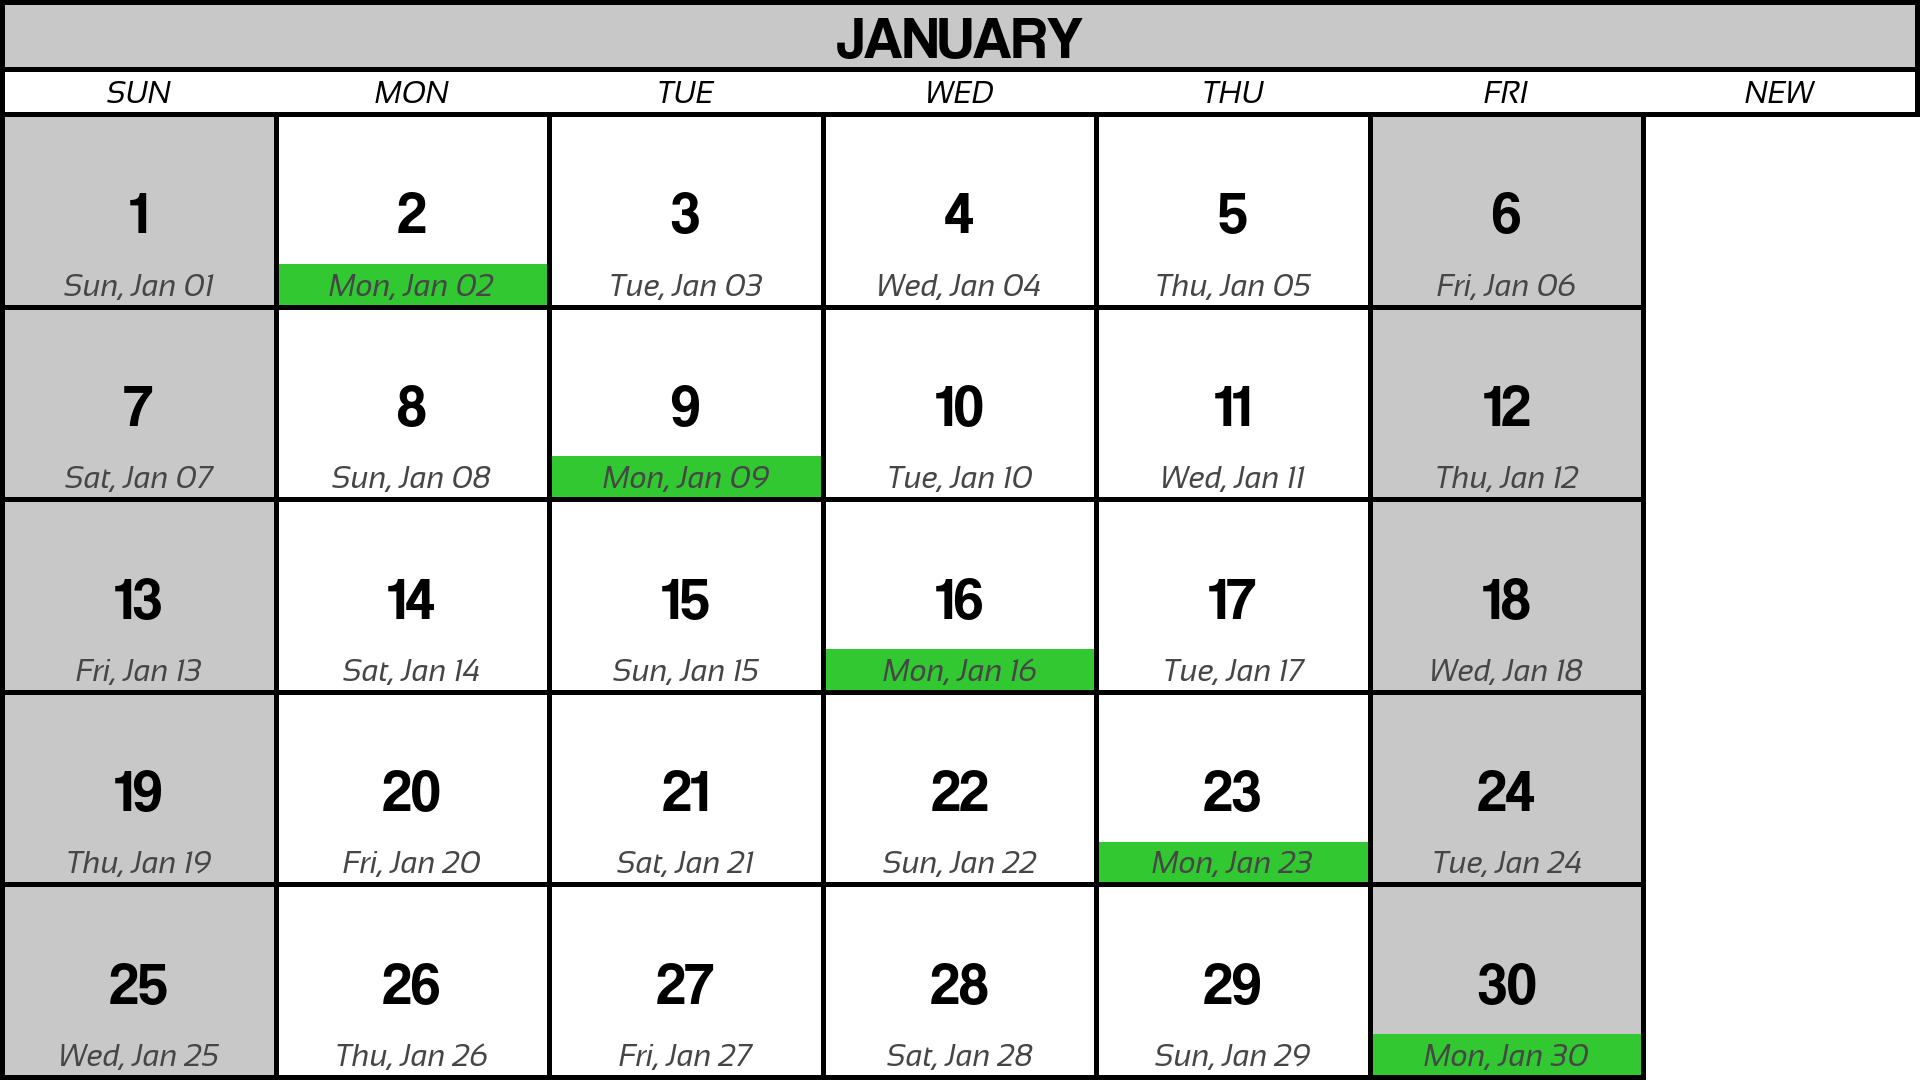
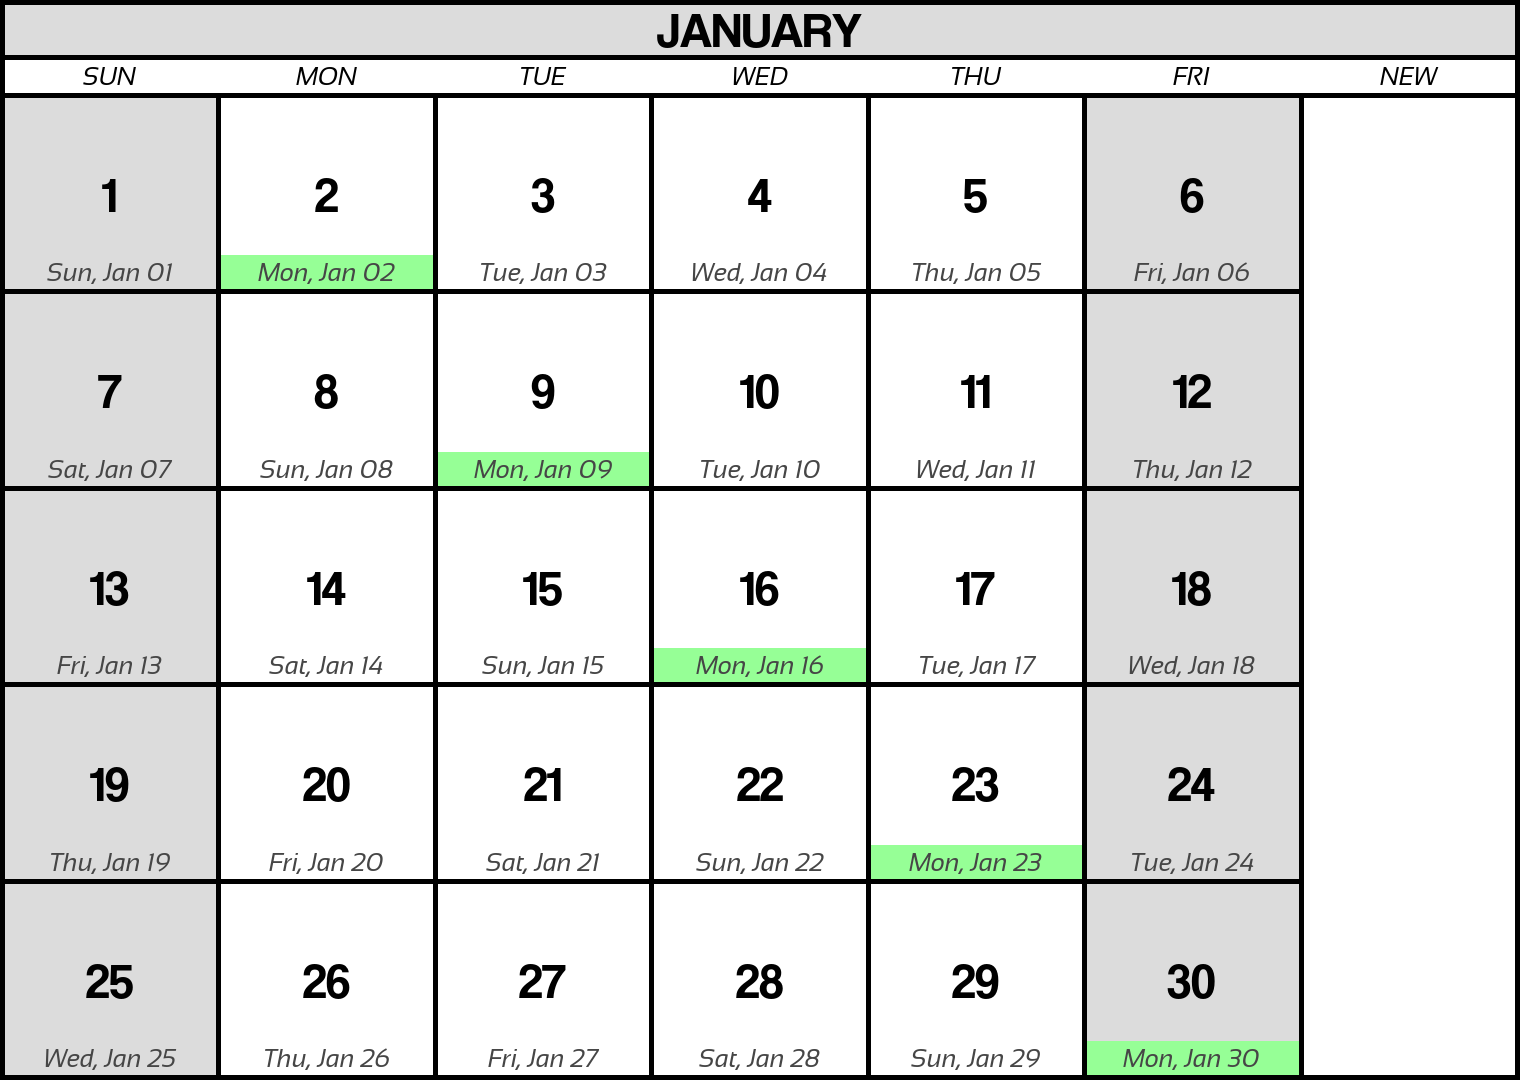
moved indexes to its own generator funct

diff --git a/SixDayCalendar.py b/SixDayCalendar.py
@@ -4,30 +4,11 @@ import datetime
 import DateBox
 from CalendarStyle import CalendarStyle
 
-
-
-# makes a rect smaller on all sides
+# makes a rect smaller on all sides, so borders do not bleed into other modules
 def pad_rects(rects, padding):
     rects[0] = (rects[0][0] + padding, rects[0][1] + padding)
     rects[1] = (rects[1][0] - padding, rects[1][1] - padding)
     return rects
-
-# draws date boxes in a 7x5 grid. only the first 5 columns are used for the first 30 days
-# for months with 31 days, the 6th column is used on the last row.
-# datebox automatically marks 6day weekends as gray and 7day mondays with a green stripe.
-def draw_dates(draw: ImageDraw, rects, start_date: datetime, days_in_month: int, calendarStyle: CalendarStyle):
-    rects = pad_rects(rects, calendarStyle.stroke_width/2)
-    box_width = (rects[1][0] - rects[0][0]) / 7
-    box_height = (rects[1][1] - rects[0][1]) / 5
-    row = 0
-    col = 0
-    for i in range(0, days_in_month):
-        boxrects = [(rects[0][0] + box_width * col, rects[0][1] + box_height * row), (rects[0][0] + box_width * (col+1), rects[0][1] + box_height * (row+1))]
-        DateBox.draw_datebox(boxrects, draw, (col, row), i+1, start_date + datetime.timedelta(days=i), calendarStyle)
-        col += 1
-        if row < 4 and col >= 6:
-            col = 0
-            row += 1
 
 # draws the title for the month. input is 6day month.
 def draw_title(draw: ImageDraw, rects, month: str, calendarStyle: CalendarStyle):
@@ -47,9 +28,32 @@ def draw_weekdays(draw: ImageDraw, rects, calendarStyle: CalendarStyle):
     for col in range(0, 7):
         weekday_rect = [(rects[0][0] + box_width * col, rects[0][1]), (rects[0][0] + box_width * (col+1), rects[1][1])]
         draw.text(DateBox.base(weekday_rect, calendarStyle), WEEKDAY_NAMES[col], fill=(0,0,0), anchor="ms", font= calendarStyle.small_font)
-        pass
+
+# yields the column and row for each date in the calendar. overflows max_columns on the last row.
+# consider max_columns to be the number of days in a week, excluding extra days at the end of the month.
+def date_index_generator(days, max_columns, num_rows):
+    col = 0
+    row = 0
+    for i in range(0, days):
+        yield (col, row), i
+        col += 1
+        if col >= max_columns and row < num_rows - 1:
+            col = 0
+            row += 1
+
+# draws date boxes in a 7x5 grid. only the first 6 columns are used for the first 30 days
+# for months with 31 days, the 7th column is used on the last row.
+def draw_dates(draw: ImageDraw, rects, start_date: datetime, days_in_month: int, calendarStyle: CalendarStyle):
+    rects = pad_rects(rects, calendarStyle.stroke_width/2)
+    box_width = (rects[1][0] - rects[0][0]) / 7
+    box_height = (rects[1][1] - rects[0][1]) / 5
+    for (col, row), day in date_index_generator(days_in_month, 6, 5):
+        box_rect = [(rects[0][0] + box_width * col, rects[0][1] + box_height * row), (rects[0][0] + box_width * (col+1), rects[0][1] + box_height * (row+1))]
+        DateBox.draw_datebox(box_rect, draw, (col, row), day+1, start_date + datetime.timedelta(days=day), calendarStyle)
 
 def draw_calendar_month(draw: ImageDraw, rects, date: datetime, days_in_month: int, month_string: str, calendarStyle: CalendarStyle):
     draw_title(draw, [rects[0], (rects[1][0], calendarStyle.title_height)], month_string, calendarStyle)
     draw_weekdays(draw, [(0, calendarStyle.title_height - calendarStyle.stroke_width), (rects[1][0], calendarStyle.title_height + calendarStyle.weekdays_label_height)], calendarStyle)
     draw_dates(draw, [(0, calendarStyle.title_height + calendarStyle.weekdays_label_height - calendarStyle.stroke_width), rects[1]], date, days_in_month, calendarStyle)
+    rects = pad_rects(rects, calendarStyle.stroke_width/2)
+    DateBox.draw_border(rects, draw, calendarStyle)

diff --git a/DateBox.py b/DateBox.py
@@ -32,10 +32,10 @@ def draw_border(rects, draw: ImageDraw, calendarStyle: CalendarStyle):
 def draw_shading(rects, draw: ImageDraw, day_grid_position: tuple, calendarStyle: CalendarStyle, datetime: datetime = None):
     # highlight 6day weekends
     if day_grid_position[0] == 0 or day_grid_position[0] >= 5:
-        draw.rectangle(rects, fill=(200,200,200))
+        draw.rectangle(rects, fill=(220,220,220))
     # highlight 7day mondays
     if(datetime != None and datetime.weekday() == 0):
-        draw.rectangle([(rects[0][0], rects[1][1] - calendarStyle.font_size/1.4), (rects[1])], fill=(50,200,50))
+        draw.rectangle([(rects[0][0], rects[1][1] - calendarStyle.font_size/1.4), (rects[1])], fill=(150,255,150))
 
 def draw_labels(rects, draw:ImageDraw, day: int, datetime: datetime, calendarStyle: CalendarStyle):
     # day of 6day month

diff --git a/main.py b/main.py
@@ -7,10 +7,10 @@ from CalendarStyle import CalendarStyle
 
 # defaults
 YEAR = 2023
-IMG_WIDTH = 1920
+IMG_WIDTH = 1520
 IMG_HEIGHT = 1080
 STROKE_WIDTH = 5
-FONT_SIZE = 60
+FONT_SIZE = 50
 
 if __name__ == "__main__":
     for i, arg in enumerate(sys.argv):
